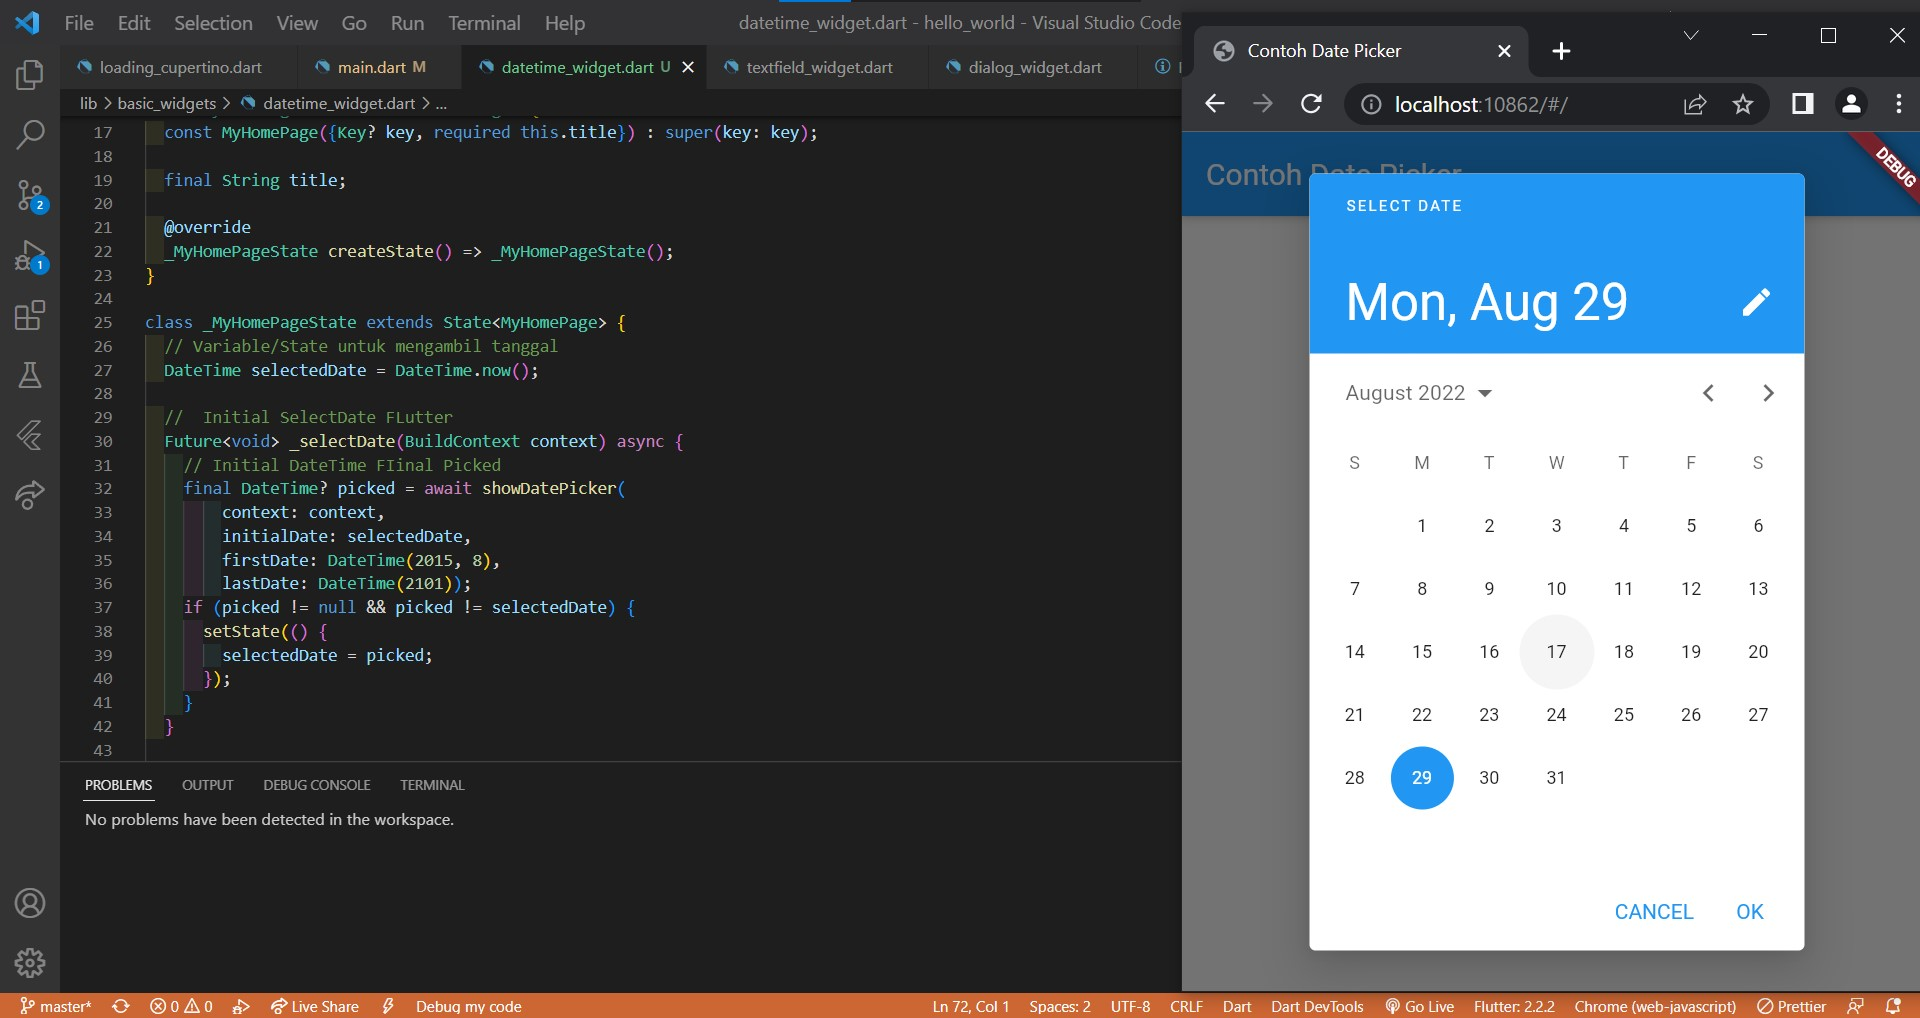
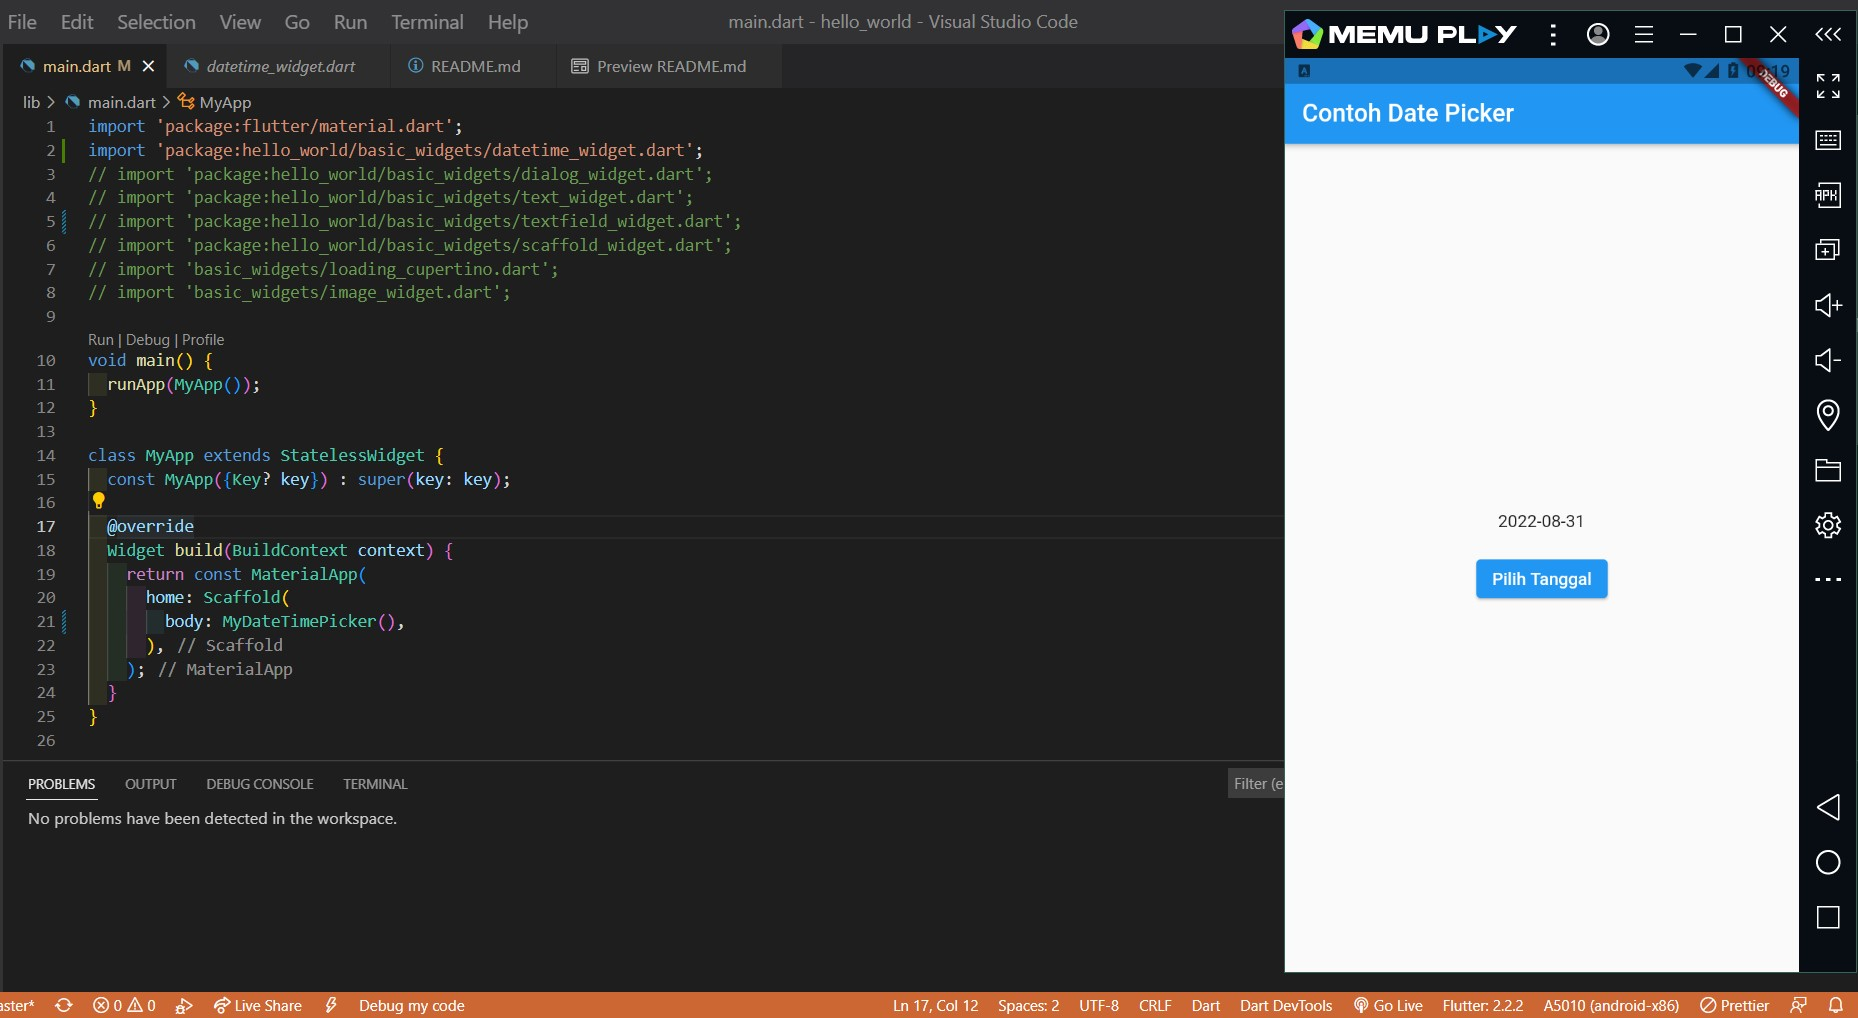
update datetime

diff --git a/lib/main.dart b/lib/main.dart
@@ -1,8 +1,8 @@
 import 'package:flutter/material.dart';
+import 'package:hello_world/basic_widgets/datetime_widget.dart';
 // import 'package:hello_world/basic_widgets/dialog_widget.dart';
 // import 'package:hello_world/basic_widgets/text_widget.dart';
-import 'package:hello_world/basic_widgets/textfield_widget.dart';
-// import 'package:hello_world/basic_widgets/datetime_widget.dart';
+// import 'package:hello_world/basic_widgets/textfield_widget.dart';
 // import 'package:hello_world/basic_widgets/scaffold_widget.dart';
 // import 'basic_widgets/loading_cupertino.dart';
 // import 'basic_widgets/image_widget.dart';
@@ -18,7 +18,7 @@ class MyApp extends StatelessWidget {
   Widget build(BuildContext context) {
     return const MaterialApp(
       home: Scaffold(
-        body: MyTextField(),
+        body: MyDateTimePicker(),
       ),
     );
   }
